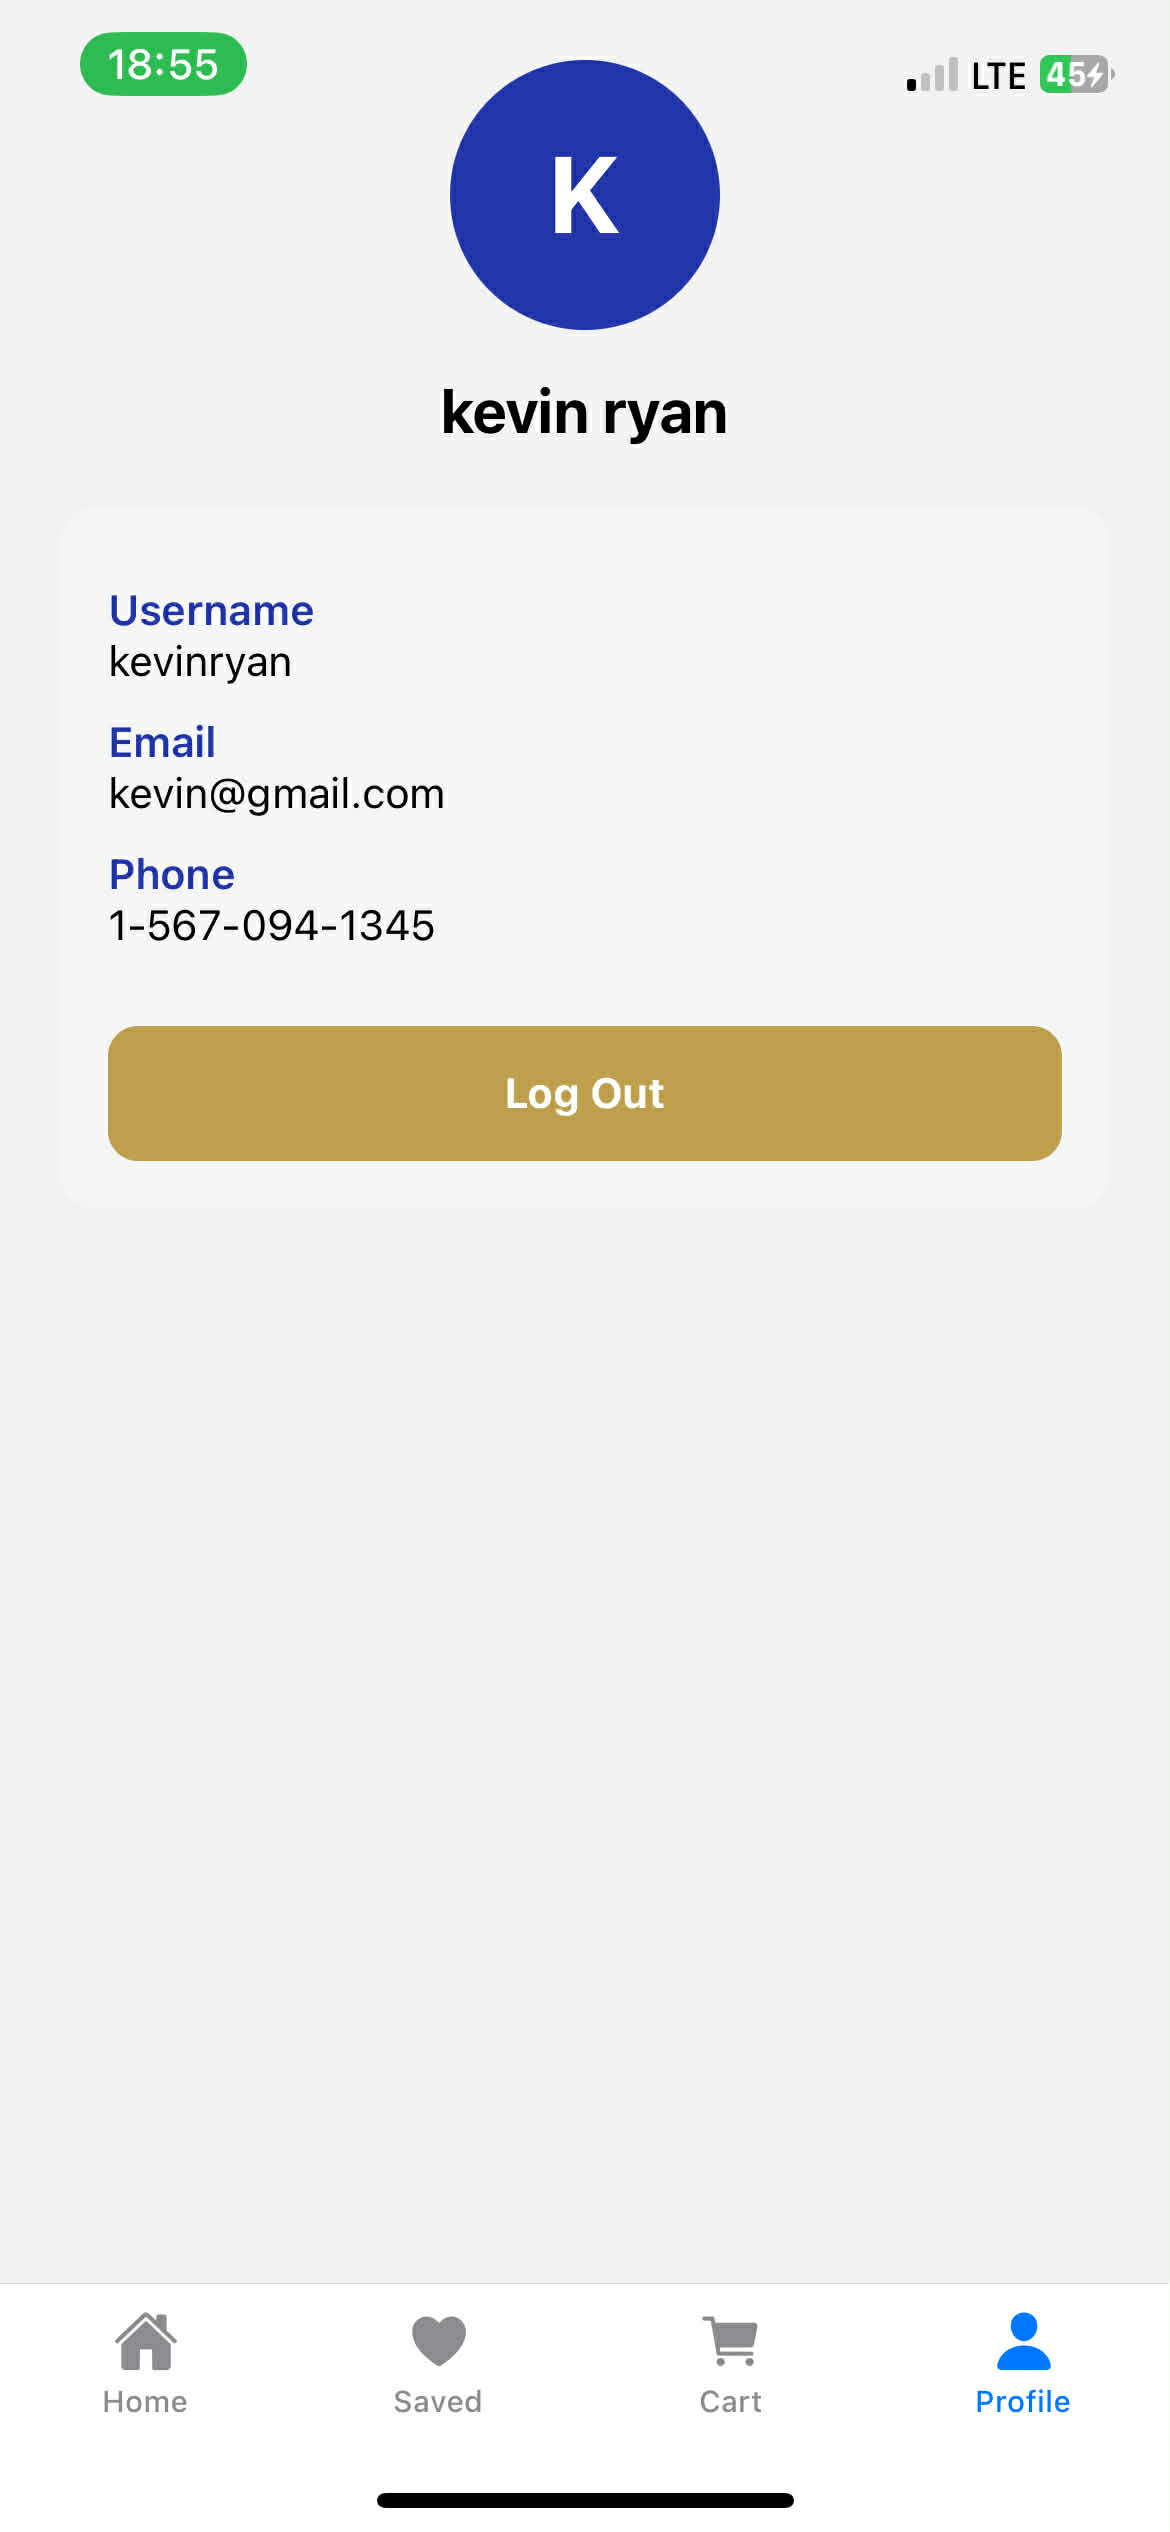
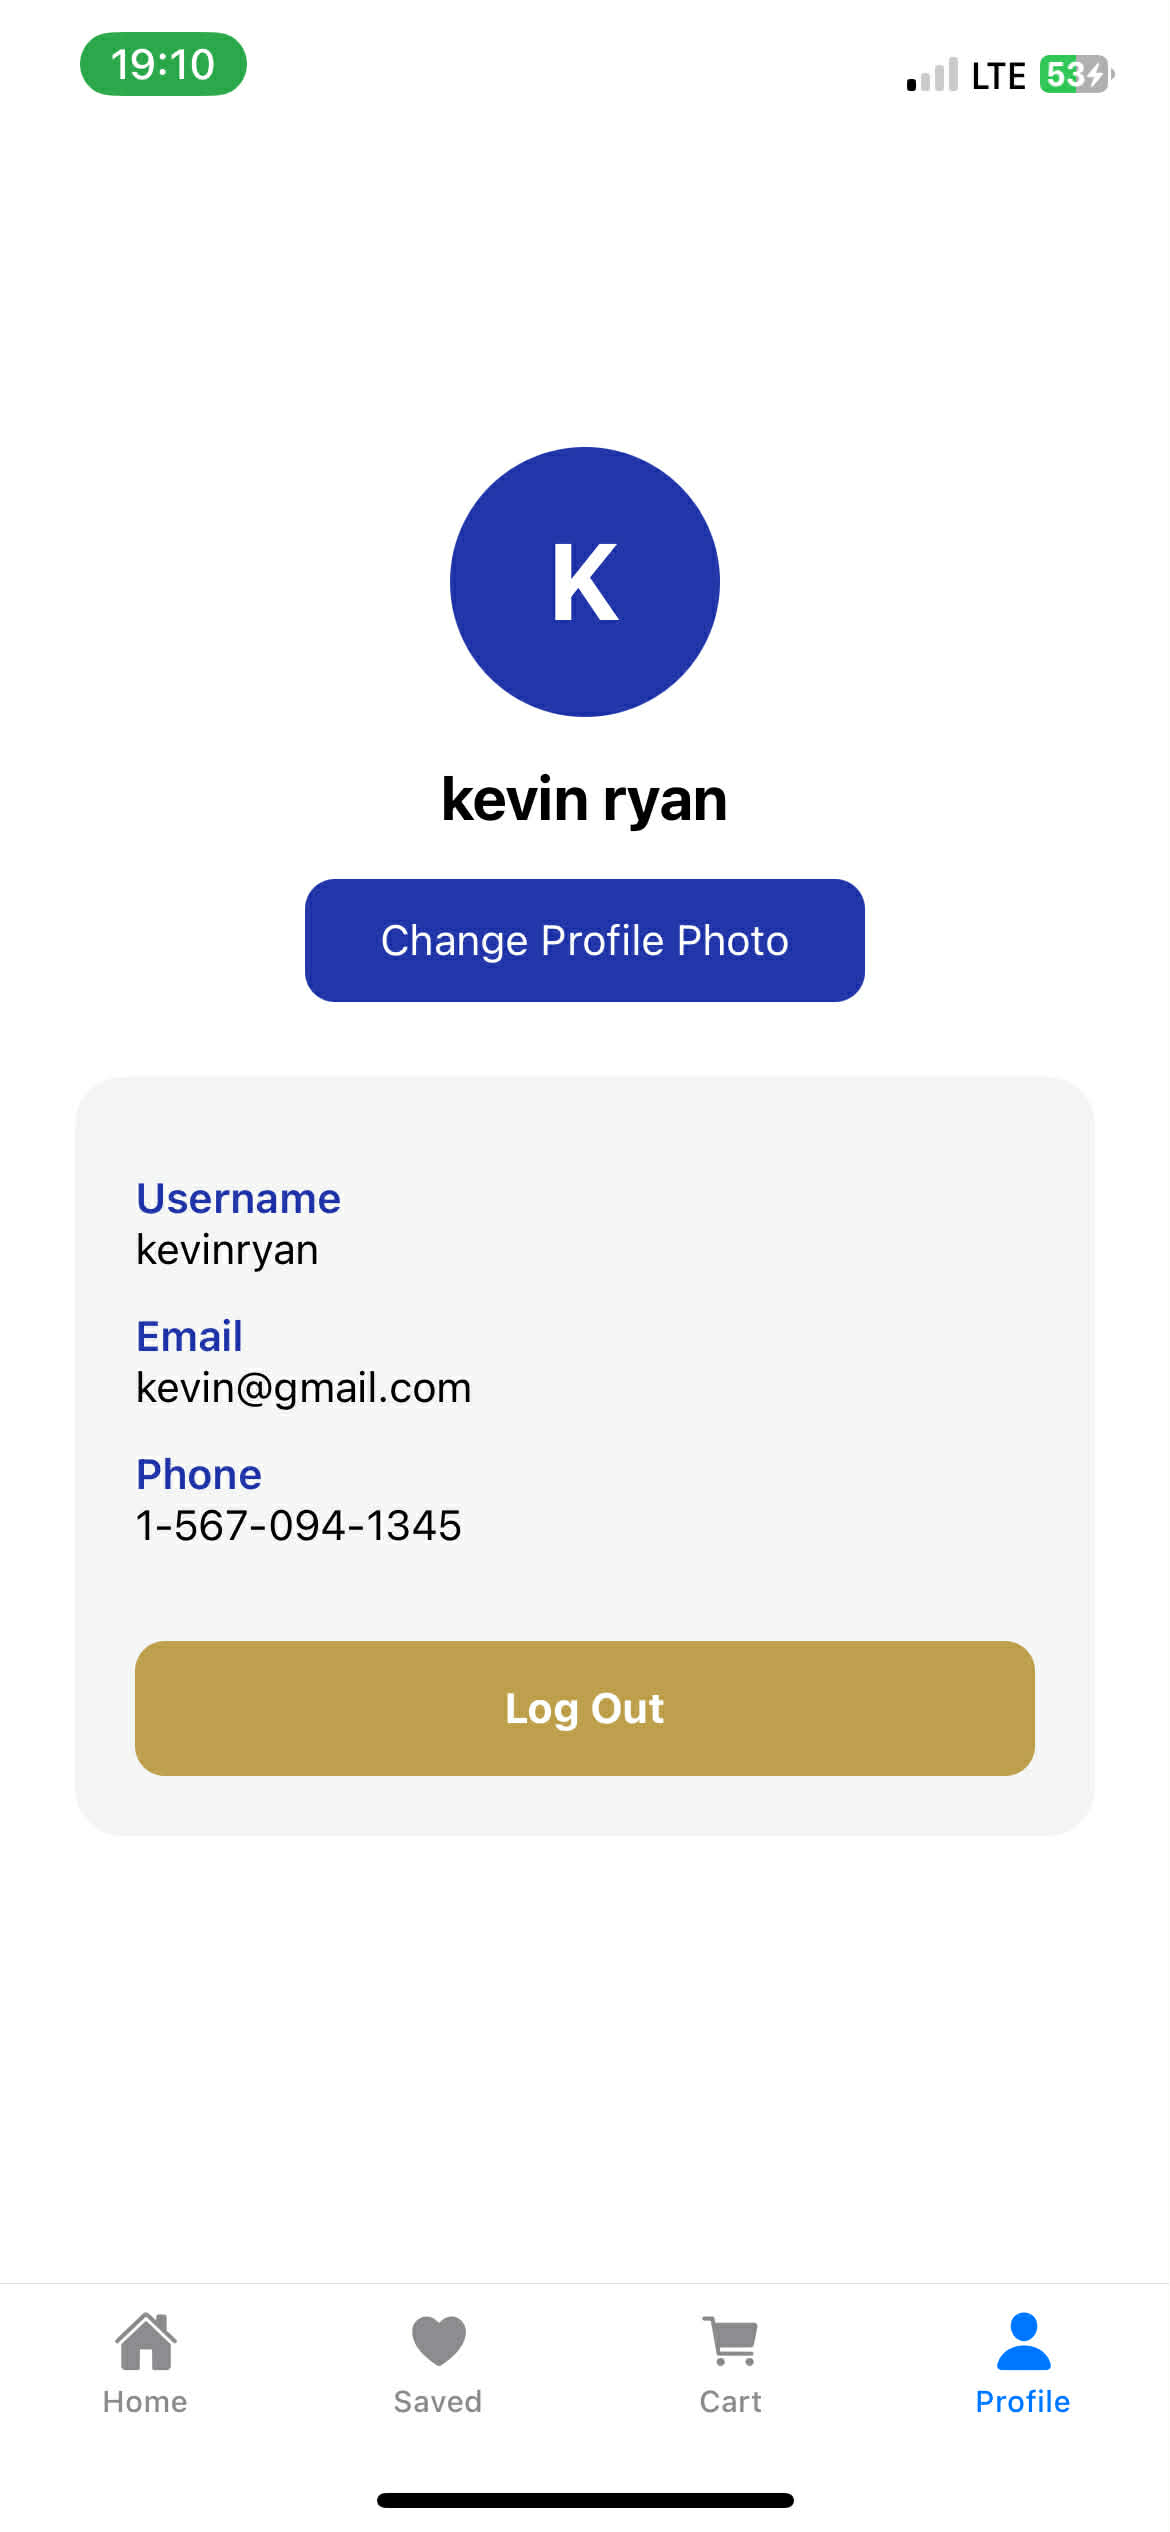
profile

diff --git a/app/(tabs)/profile.tsx b/app/(tabs)/profile.tsx
@@ -1,13 +1,8 @@
+import { View, Text, TouchableOpacity, StyleSheet, ActivityIndicator } from "react-native";
+import { useEffect, useState } from "react";
+import * as ImagePicker from "expo-image-picker";
 import AsyncStorage from "@react-native-async-storage/async-storage";
 import { router } from "expo-router";
-import { useEffect, useState } from "react";
-import {
-  ActivityIndicator,
-  StyleSheet,
-  Text,
-  TouchableOpacity,
-  View,
-} from "react-native";
 
 type User = {
   name: {
@@ -20,8 +15,10 @@ type User = {
 };
 
 export default function Profile() {
+
   const [user, setUser] = useState<User | null>(null);
   const [loading, setLoading] = useState(true);
+  const [image, setImage] = useState<string | null>(null);
 
   useEffect(() => {
     fetchUser();
@@ -34,6 +31,27 @@ export default function Profile() {
       setUser(data);
     } finally {
       setLoading(false);
+    }
+  };
+
+  // Gallery open
+  const pickImage = async () => {
+
+    const permission =
+      await ImagePicker.requestMediaLibraryPermissionsAsync();
+
+    if (!permission.granted) {
+      alert("Gallery permission required");
+      return;
+    }
+
+    const result = await ImagePicker.launchImageLibraryAsync({
+      mediaTypes: ImagePicker.MediaTypeOptions.Images,
+      quality: 1
+    });
+
+    if (!result.canceled) {
+      setImage(result.assets[0].uri);
     }
   };
 
@@ -54,6 +72,7 @@ export default function Profile() {
 
   return (
     <View style={styles.container}>
+
       {/* Avatar */}
       <View style={styles.avatar}>
         <Text style={styles.avatarText}>
@@ -61,13 +80,21 @@ export default function Profile() {
         </Text>
       </View>
 
-      {/* Name */}
+      {/* User Name */}
       <Text style={styles.name}>
         {user.name.firstname} {user.name.lastname}
       </Text>
 
-      {/* User info + logout button */}
+      {/* Photo Button */}
+      <TouchableOpacity style={styles.photoButton} onPress={pickImage}>
+        <Text style={{ color: "#fff", textAlign: "center" }}>
+          Change Profile Photo
+        </Text>
+      </TouchableOpacity>
+
+      {/* Info Card */}
       <View style={styles.card}>
+
         <Text style={styles.label}>Username</Text>
         <Text>{user.username}</Text>
 
@@ -77,27 +104,31 @@ export default function Profile() {
         <Text style={styles.label}>Phone</Text>
         <Text>{user.phone}</Text>
 
-        {/* Logout button inside profile info */}
+        {/* Logout */}
         <TouchableOpacity style={styles.logoutButton} onPress={handleLogout}>
           <Text style={styles.logoutText}>Log Out</Text>
         </TouchableOpacity>
+
       </View>
     </View>
   );
 }
 
 const styles = StyleSheet.create({
+
   loader: {
     flex: 1,
     justifyContent: "center",
-    alignItems: "center",
+    alignItems: "center"
   },
 
   container: {
-    flex: 1,
-    padding: 20,
-    alignItems: "center",
-  },
+  flex: 1,
+  paddingHorizontal: 25,
+  justifyContent: "center",
+  alignItems: "center",
+  backgroundColor: "#fff",
+},
 
   avatar: {
     width: 90,
@@ -106,44 +137,53 @@ const styles = StyleSheet.create({
     backgroundColor: "#2437AB",
     justifyContent: "center",
     alignItems: "center",
-    marginBottom: 15,
+    marginBottom: 15
   },
 
   avatarText: {
     color: "#fff",
     fontSize: 36,
-    fontWeight: "bold",
+    fontWeight: "bold"
   },
 
   name: {
     fontSize: 20,
     fontWeight: "700",
-    marginBottom: 20,
+    marginBottom: 15
+  },
+
+  photoButton: {
+    backgroundColor: "#2437AB",
+    paddingVertical: 12,
+    paddingHorizontal: 25,
+    borderRadius: 10,
+    marginBottom: 25
   },
 
   card: {
     width: "100%",
     backgroundColor: "#F5F5F5",
-    borderRadius: 12,
-    padding: 16,
+    borderRadius: 16,
+    padding: 20
   },
 
   label: {
-    marginTop: 10,
+    marginTop: 12,
     fontWeight: "600",
-    color: "#2437AB",
+    color: "#2437AB"
   },
 
   logoutButton: {
-    marginTop: 25,
+    marginTop: 30,
     backgroundColor: "#BFA150",
     paddingVertical: 14,
-    borderRadius: 10,
+    borderRadius: 10
   },
 
   logoutText: {
     color: "#fff",
     textAlign: "center",
-    fontWeight: "bold",
-  },
+    fontWeight: "bold"
+  }
+
 });
